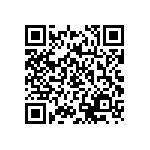
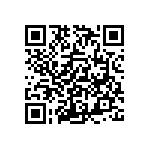
commit

Changed region(s): [[0.16, 0.16, 0.8267, 0.8267], [0.16, 0.3467, 0.1867, 0.3733]]

diff --git a/src/main/java/sn/modelsis/cdmp/services/impl/ConventionServiceImpl.java b/src/main/java/sn/modelsis/cdmp/services/impl/ConventionServiceImpl.java
@@ -226,9 +226,9 @@ public class ConventionServiceImpl implements ConventionService{
     return date.getDayOfMonth()+"-"+date.getMonthValue()+"-"+date.getYear();
   }
 
-  public String getInfoQRcode(Observation observation){
+  public String getInfoQRcode(Observation observation,String profil){
     return  "Prénom: "+observation.getUtilisateur().getPrenom()+ "\n Nom: "+ observation.getUtilisateur().getNom()+
-            "\n Email: "+observation.getUtilisateur().getEmail()+"\n"+"Singé le "+convertDate(observation.getDateObservation(),true);
+            "\n Email: "+observation.getUtilisateur().getEmail()+"\n Profil: "+profil+"\n Singé le "+convertDate(observation.getDateObservation(),true);
   }
 
 
@@ -279,17 +279,17 @@ public class ConventionServiceImpl implements ConventionService{
     Observation obPME = getLastSignature(convention.getDemandeCession().getIdDemande(), Status.getConventionSigneeParPME());
     if (obPME != null) {
       String qrCodePME = "Prénom: " + convention.getDemandeCession().getPme().getPrenomRepresentant() + "\n" + "Nom: " + convention.getDemandeCession().getPme().getNomRepresentant() +
-              "\n" + "Mail: " + convention.getDemandeCession().getPme().getEmail() + "\n" + "Singé le " + convertDate(obPME.getDateObservation(),true);
+              "\n" + "Mail: " + convention.getDemandeCession().getPme().getEmail() + "\n Profil: "+"PME" +"\n Singé le " + convertDate(obPME.getDateObservation(),true);
       qrCodePME = Qrcode.generateQRCode(qrCodePME, path + "/pme.png");
       contextModel.put("qrCodePME", qrCodePME);
       Observation obDG = getLastSignature(convention.getDemandeCession().getIdDemande(), Status.getConventionSigneeParDG());
       if (obDG != null) {
-        String qrCodeCDMP = getInfoQRcode(obDG);
+        String qrCodeCDMP = getInfoQRcode(obDG," DG CDMP");
         qrCodeCDMP = Qrcode.generateQRCode(qrCodeCDMP, path + "/cdmp.png");
         contextModel.put("qrCodeCDMP", qrCodeCDMP);
         /*Observation obORD = getLastSignature(convention.getDemandeCession().getIdDemande(), Status.getConventionAcceptee());
         if (obORD != null) {
-          String qrCodeORD = getInfoQRcode(obORD);
+          String qrCodeORD = getInfoQRcode(obORD, "ORDONNATEUR");
           qrCodeORD = Qrcode.generateQRCode(qrCodeORD, path + "/ordonnaneur.png");
           contextModel.put("qrCodeORD", qrCodeORD);
         }*/

diff --git a/src/main/java/sn/modelsis/cdmp/CdmpApplication.java b/src/main/java/sn/modelsis/cdmp/CdmpApplication.java
@@ -191,7 +191,7 @@ public class CdmpApplication implements InitializingBean, CommandLineRunner {
         FilterChain filterChain) throws ServletException, IOException {
       String context = request.getRequestURI();
       if (request.getRequestURI().contains("api/") || request.getRequestURI().contains("token")) {
-        response.setHeader("Access-Control-Allow-Methods", "GET, POST, PUT, DELETE, OPTIONS", "PATCH");
+        response.setHeader("Access-Control-Allow-Methods", "GET, POST, PUT, DELETE, OPTIONS, PATCH");
         response.setHeader("Access-Control-Max-Age", "3600");
         response.setHeader("Access-Control-Allow-Headers",
             "authorization, content-type, xsrf-token,enctype");
